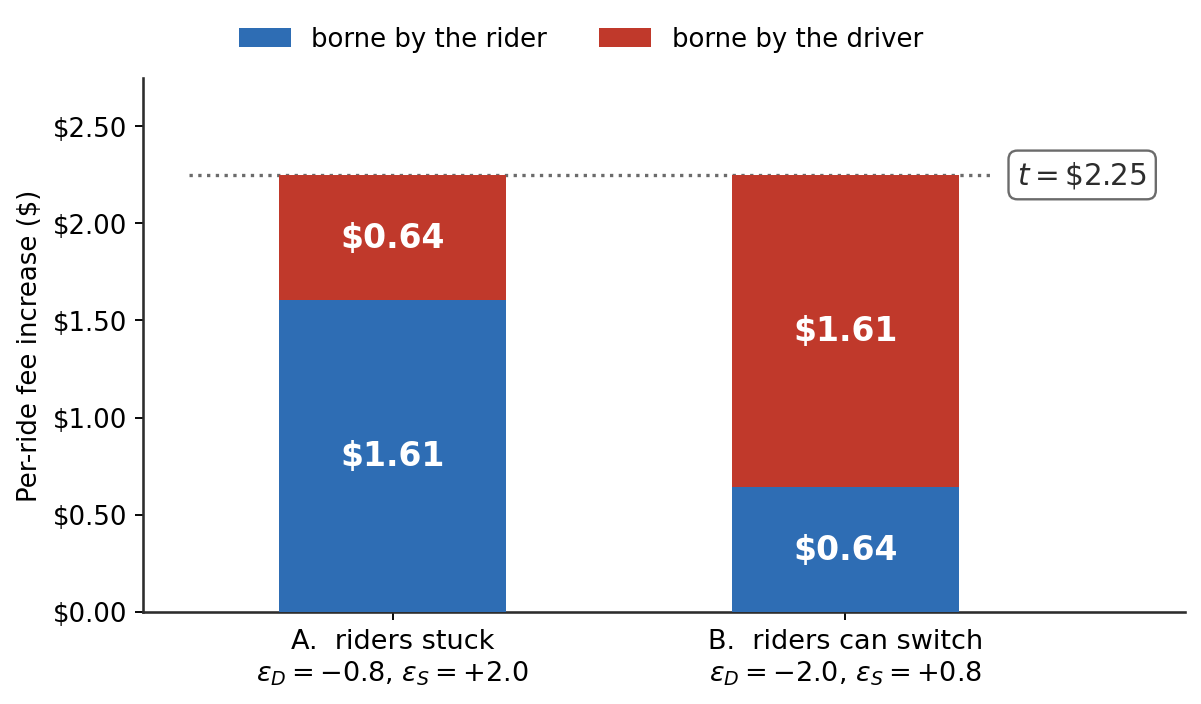
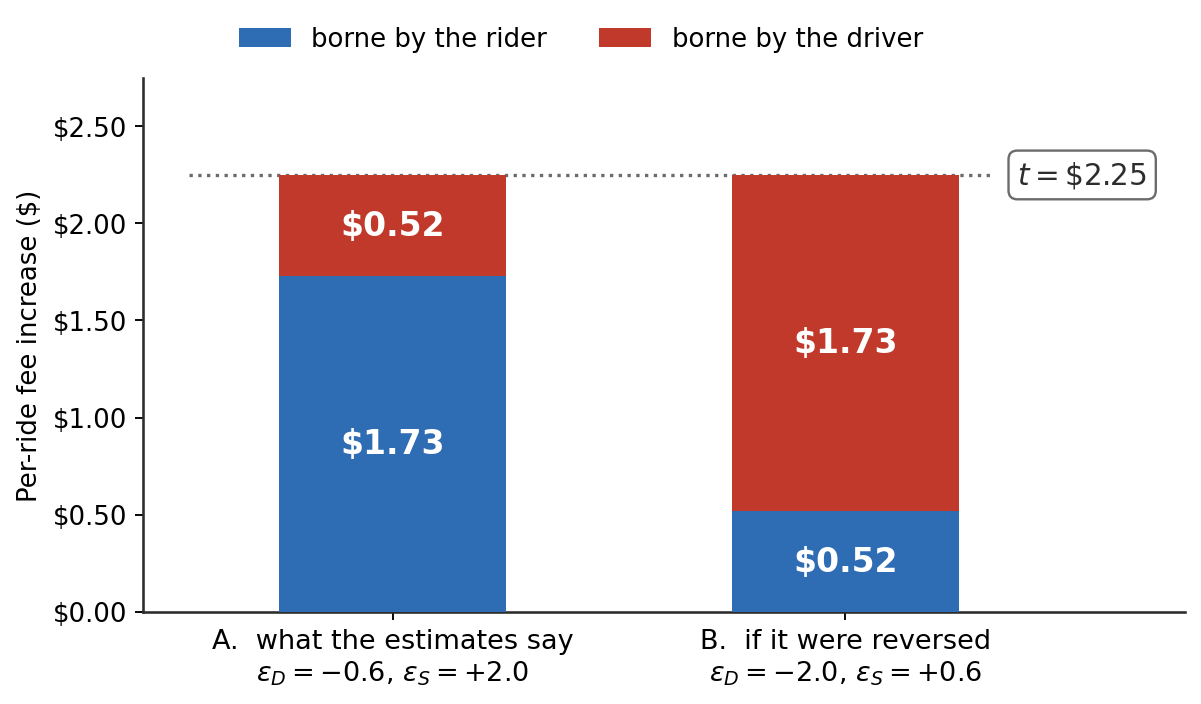
Ch 3 W3.4: anchor the elasticities to the literature -- and fix the conclusion
Answering "what were eD and eS": I had made them up. They were labelled as
teaching values, but I picked -0.8 and +2.0 to make the arithmetic flip
cleanly, and then wrote a closing line asserting the elastic case was "closer
to the truth than travellers expect." That assertion was wrong.

The estimates say the opposite:

  eD  Cohen, Hahn, Hall, Levitt & Metcalfe (2016, NBER w22627) estimate -0.57
      for UberX, using Uber's surge algorithm as a regression discontinuity
      across four US markets. Rideshare demand is INELASTIC.
  eS  Hall, Horton & Knoepfle find driver supply highly elastic -- no hours
      restriction, essentially free entry.

So riders are the inelastic side and drivers the elastic one, which makes case
(a) the real one, not (b): riders carry about $1.73 of the $2.25, drivers about
$0.52. Recalibrated to eD = -0.6, eS = +2.0, with the swapped case kept as an
explicit counterfactual ("if it were reversed") rather than a rival candidate.
Both citations now sit on the slide, not just in my head.

The airport-substitutes intuition -- parking, the Silver Line, a friend at the
curb -- is still worth raising in class, but as the thing the evidence
contradicts. That gap is now the teaching moment in the speaker notes.

Photos: added a real photograph rather than only generated figures. Boston
Logan aerial by David Wilson, CC BY 2.0 via Wikimedia Commons, credited on
both slides that use it -- as a banner on W3.4 and in the right column of the
[…]

diff --git a/econ2316/ch03-elasticity-policy/index.html b/econ2316/ch03-elasticity-policy/index.html
@@ -954,30 +954,31 @@
   <aside class="notes">First numerical workout of the incidence idea, and deliberately on a NON-tax shock - the HPAI cull from Chs 1 and 2 - so students see the formula is about elasticities, not about taxes. Say the lead-in rather than showing it. Part (c) is the payoff: Ch 2 solved this by re-solving the whole system and got dp = +2, dQ = -10; the elasticity route gets the same 2:1 split in one line. Same answer two ways - the §3.5 elasticity formula and Ch 2's total differentiation are the same mathematics wearing different clothes. Sanity check to voice: supply here is twice as elastic as demand, so demand should eat twice the burden, and it does.</aside>
 </section><section id="s5-w34">
   <h2><i class="fa-solid fa-flask" style="color: var(--accent-color);"></i> Walkthrough 3.4 &mdash; The Logan rideshare fee</h2>
-  <div style="background:#f0f5f8;padding:7px 15px;border-radius:8px;border-left:4px solid var(--secondary-color);margin-bottom:9px;">
+  <img alt="Aerial photograph of Boston Logan International Airport, terminals and runways ringed by the harbour." src="figures/logan-aerial.webp" style="width:100%;max-height:96px;object-fit:cover;object-position:center 42%;border-radius:8px;display:block;">
+  <div style="background:#f0f5f8;padding:7px 15px;border-radius:8px;border-left:4px solid var(--secondary-color);margin:9px 0;">
     <p style="font-size:12pt;line-height:1.45;margin:0;"><strong style="color:var(--secondary-color);">Problem.</strong> On 1 July 2025 Massport raised the per-trip rideshare fee at Logan from \(\$3.25\) to \(\$5.50\) &mdash; a <strong>unit tax</strong> of \(t=\$2.25\) a ride. Who actually pays it?</p>
   </div>
   <div style="display:grid;grid-template-columns:1.02fr 1fr;gap:18px;align-items:start;">
     <div>
-      <div class="fragment fade-in" data-fragment-index="1" style="background:#ecfdf5;padding:9px 14px;border-radius:8px;border-left:4px solid var(--success-color);">
-        <p style="font-size:10pt;color:var(--success-color);text-transform:uppercase;letter-spacing:1.1px;font-weight:700;margin:0 0 4px;">(a) Riders stuck &mdash; \(\varepsilon_D=-0.8\), \(\varepsilon_S=+2.0\)</p>
-        <p style="font-size:12.5pt;line-height:1.6;margin:0;">\(\dfrac{dp_c}{dt}=\dfrac{2.0}{2.0+0.8}=\mathbf{0.714}\)<br>Rider \(\mathbf{+\$1.61}\) &middot; driver \(\mathbf{-\$0.64}\)</p>
+      <div class="fragment fade-in" data-fragment-index="1" style="background:#ecfdf5;padding:8px 14px;border-radius:8px;border-left:4px solid var(--success-color);">
+        <p style="font-size:10pt;color:var(--success-color);text-transform:uppercase;letter-spacing:1.1px;font-weight:700;margin:0 0 3px;">(a) What the estimates say &mdash; \(\varepsilon_D=-0.6\), \(\varepsilon_S=+2.0\)</p>
+        <p style="font-size:12.5pt;line-height:1.55;margin:0;">\(\dfrac{dp_c}{dt}=\dfrac{2.0}{2.0+0.6}=\mathbf{0.769}\) &rarr; rider \(\mathbf{+\$1.73}\), driver \(\mathbf{-\$0.52}\)</p>
       </div>
-      <div class="fragment fade-in" data-fragment-index="2" style="background:#fef9f3;padding:9px 14px;border-radius:8px;border-left:4px solid var(--accent-color);margin-top:8px;">
-        <p style="font-size:10pt;color:var(--accent-color);text-transform:uppercase;letter-spacing:1.1px;font-weight:700;margin:0 0 4px;">(b) Now swap them &mdash; \(\varepsilon_D=-2.0\), \(\varepsilon_S=+0.8\)</p>
-        <p style="font-size:12.5pt;line-height:1.6;margin:0;">\(\dfrac{dp_c}{dt}=\dfrac{0.8}{2.8}=\mathbf{0.286}\)<br>Rider \(\mathbf{+\$0.64}\) &middot; driver \(\mathbf{-\$1.61}\). The shares <strong>flip</strong>.</p>
+      <div class="fragment fade-in" data-fragment-index="2" style="background:#fef9f3;padding:8px 14px;border-radius:8px;border-left:4px solid var(--accent-color);margin-top:7px;">
+        <p style="font-size:10pt;color:var(--accent-color);text-transform:uppercase;letter-spacing:1.1px;font-weight:700;margin:0 0 3px;">(b) If it were reversed &mdash; \(\varepsilon_D=-2.0\), \(\varepsilon_S=+0.6\)</p>
+        <p style="font-size:12.5pt;line-height:1.55;margin:0;">\(\dfrac{0.6}{2.6}=\mathbf{0.231}\) &rarr; rider \(\mathbf{+\$0.52}\), driver \(\mathbf{-\$1.73}\). The shares <strong>flip</strong>.</p>
       </div>
-      <div class="key-result fragment fade-in" data-fragment-index="3" style="margin-top:9px;">
-        <p style="font-size:12.5pt;margin:0 0 6px;"><strong>Whoever can walk away, walks away.</strong> Massport did not change who writes the cheque &mdash; only the two elasticities decide.</p>
-        <p style="font-size:11.5pt;margin:0;color:var(--muted-color);">At an airport the substitutes are real: park, take the Silver Line, or get dropped off. So (b) is closer to the truth than travellers expect.</p>
+      <div class="key-result fragment fade-in" data-fragment-index="3" style="margin-top:8px;">
+        <p style="font-size:12pt;margin:0 0 5px;"><strong>Whoever can walk away, walks away.</strong> Massport did not change who hands over the money &mdash; only the two elasticities decide.</p>
+        <p style="font-size:11.5pt;margin:0;color:var(--muted-color);">And here it is (a): riders are the <em>inelastic</em> side, drivers the elastic one. Travellers pay about \(\$1.73\) of every \(\$2.25\) &mdash; which is why a fee like this funds a \(\$1.5\)B capital programme.</p>
       </div>
     </div>
     <div>
-      <img alt="Two stacked bars splitting the two-dollar-twenty-five fee increase. When riders are the inelastic side they carry one dollar sixty-one and drivers sixty-four cents; when the elasticities are swapped the split reverses." src="figures/logan-incidence.png" style="width:100%;border-radius:8px;">
-      <p style="font-size:10.5pt;color:var(--muted-color);margin:8px 2px 0;line-height:1.4;">Fee change is real (Massport, 1 July 2025); the elasticities are teaching values, chosen to show the flip. Massport&rsquo;s original plan was \(\$7.50\) &mdash; frozen in the March 2025 deal, and the subject of &sect;3.6.</p>
+      <img alt="Two stacked bars splitting the two-dollar-twenty-five fee increase. Under the estimated elasticities riders carry one dollar seventy-three and drivers fifty-two cents; if the elasticities were reversed the split reverses too." src="figures/logan-incidence.png" style="width:100%;border-radius:8px;">
+      <p style="font-size:10pt;color:var(--muted-color);margin:6px 2px 0;line-height:1.4;">\(\varepsilon_D\): Cohen, Hahn, Hall, Levitt &amp; Metcalfe (2016, NBER w22627) estimate \(-0.57\) for UberX. \(\varepsilon_S\): Hall, Horton &amp; Knoepfle find driver supply highly elastic &mdash; free entry, no hours cap. Photo: David Wilson, CC BY 2.0.</p>
     </div>
   </div>
-  <aside class="notes">Local, current, and a clean unit tax - students have paid this one. The fee went from three twenty-five to five fifty on the first of July 2025, so t is two dollars twenty-five per ride, and the revenue funds about one and a half billion in Massport capital work. Part (b) is the whole walkthrough: run it again with the elasticities swapped and the burden reverses, with no change at all to who hands over the money. Anyone still thinking "the driver pays because the fee is charged to the trip" cannot hold that after seeing it flip. Be honest that the elasticities are teaching values, not estimates - the fee is the real part. The airport detail worth voicing is that rideshare demand there is more elastic than people assume, because parking, the Silver Line and a friend at the curb are all live substitutes, which pushes the real answer toward case (b). Hands to section 3.6, where Massport wanting seven fifty instead of five fifty is exactly the t-squared question.</aside>
+  <aside class="notes">Local, current, and a clean unit tax students have actually paid. The fee went three twenty-five to five fifty on 1 July 2025, so t is two twenty-five a ride, funding about one and a half billion in Massport capital work. Do NOT present the elasticities as invented - they are anchored. Cohen and co-authors used Uber surge pricing as a regression discontinuity across four US markets and got about minus zero point five seven for UberX, which surprises students who assume rideshare is a luxury they can drop. Hall, Horton and Knoepfle find driver supply is highly elastic because there is no hours restriction and essentially free entry. Put those together and case (a) is the real one: riders are the inelastic side and carry roughly one seventy-three of the two twenty-five. Case (b) exists to make the mechanism visible - swap the two numbers and the burden reverses with no change to who hands over the money. Anyone still thinking "the driver pays, it is charged to the trip" cannot hold that afterwards. The airport nuance worth voicing: parking, the Silver Line and a friend at the curb are real substitutes, so you might expect demand to be elastic here - the estimates say otherwise, and that gap between intuition and evidence is the useful moment. Hands to section 3.6, where Massport wanting seven fifty instead of five fifty is exactly the t-squared question.</aside>
 </section><section id="s5-headsup">
   <h2><i class="fa-solid fa-triangle-exclamation" style="color: var(--danger-color);"></i> Heads Up 3.3 &mdash; Statutory incidence is irrelevant</h2>
   <div class="misconception" style="margin-top: 14px;">
@@ -1128,8 +1129,12 @@
       <div style="background:#f8f6f3;border-left:4px solid var(--muted-color);border-radius:8px;padding:12px 16px;">
         <p style="font-size:12.5pt;line-height:1.5;margin:0;"><strong>Revenue is ambiguous.</strong> More per ride, but fewer rides. Which wins depends on elasticity.</p></div>
     </div>
-    <div class="key-result" style="margin:0;">
-      <p style="font-size:12.5pt;margin:0;">Every tax rise buys revenue at a <strong>worsening exchange rate</strong>. That is the \(t^{2}\) result, seen on a real fee.</p>
+    <div>
+      <img alt="Aerial photograph of Boston Logan International Airport." src="figures/logan-aerial.webp" style="width:100%;max-height:150px;object-fit:cover;object-position:center 42%;border-radius:8px;display:block;">
+      <div class="key-result" style="margin:10px 0 0;">
+        <p style="font-size:12.5pt;margin:0;">Every tax rise buys revenue at a <strong>worsening exchange rate</strong>. That is the \(t^{2}\) result, seen on a real fee.</p>
+      </div>
+      <p style="font-size:10pt;color:var(--muted-color);margin:6px 2px 0;">Photo: David Wilson / Wikimedia Commons, CC BY 2.0.</p>
     </div>
   </div>
   <aside class="notes">Geometry to narrate off the diagram rather than label on it: when t doubles, the old DWL triangle is not simply scaled - the new region covers the old one plus the strips either side, which is where "more than doubles" comes from. Revenue splits into two opposing pieces: the state gains the extra fee on rides that still happen, and loses the fee entirely on rides that stop. Net direction depends on how elastic airport rideshare demand is - and at an airport, with parking and transit as substitutes, it is more elastic than people expect. Heads Up 3.4 next states the t-squared result formally.</aside>

diff --git a/econ2316/ch03-elasticity-policy/presentation.html b/econ2316/ch03-elasticity-policy/presentation.html
@@ -954,30 +954,31 @@
   <aside class="notes">First numerical workout of the incidence idea, and deliberately on a NON-tax shock - the HPAI cull from Chs 1 and 2 - so students see the formula is about elasticities, not about taxes. Say the lead-in rather than showing it. Part (c) is the payoff: Ch 2 solved this by re-solving the whole system and got dp = +2, dQ = -10; the elasticity route gets the same 2:1 split in one line. Same answer two ways - the §3.5 elasticity formula and Ch 2's total differentiation are the same mathematics wearing different clothes. Sanity check to voice: supply here is twice as elastic as demand, so demand should eat twice the burden, and it does.</aside>
 </section><section id="s5-w34">
   <h2><i class="fa-solid fa-flask" style="color: var(--accent-color);"></i> Walkthrough 3.4 &mdash; The Logan rideshare fee</h2>
-  <div style="background:#f0f5f8;padding:7px 15px;border-radius:8px;border-left:4px solid var(--secondary-color);margin-bottom:9px;">
+  <img alt="Aerial photograph of Boston Logan International Airport, terminals and runways ringed by the harbour." src="figures/logan-aerial.webp" style="width:100%;max-height:96px;object-fit:cover;object-position:center 42%;border-radius:8px;display:block;">
+  <div style="background:#f0f5f8;padding:7px 15px;border-radius:8px;border-left:4px solid var(--secondary-color);margin:9px 0;">
     <p style="font-size:12pt;line-height:1.45;margin:0;"><strong style="color:var(--secondary-color);">Problem.</strong> On 1 July 2025 Massport raised the per-trip rideshare fee at Logan from \(\$3.25\) to \(\$5.50\) &mdash; a <strong>unit tax</strong> of \(t=\$2.25\) a ride. Who actually pays it?</p>
   </div>
   <div style="display:grid;grid-template-columns:1.02fr 1fr;gap:18px;align-items:start;">
     <div>
-      <div class="fragment fade-in" data-fragment-index="1" style="background:#ecfdf5;padding:9px 14px;border-radius:8px;border-left:4px solid var(--success-color);">
-        <p style="font-size:10pt;color:var(--success-color);text-transform:uppercase;letter-spacing:1.1px;font-weight:700;margin:0 0 4px;">(a) Riders stuck &mdash; \(\varepsilon_D=-0.8\), \(\varepsilon_S=+2.0\)</p>
-        <p style="font-size:12.5pt;line-height:1.6;margin:0;">\(\dfrac{dp_c}{dt}=\dfrac{2.0}{2.0+0.8}=\mathbf{0.714}\)<br>Rider \(\mathbf{+\$1.61}\) &middot; driver \(\mathbf{-\$0.64}\)</p>
+      <div class="fragment fade-in" data-fragment-index="1" style="background:#ecfdf5;padding:8px 14px;border-radius:8px;border-left:4px solid var(--success-color);">
+        <p style="font-size:10pt;color:var(--success-color);text-transform:uppercase;letter-spacing:1.1px;font-weight:700;margin:0 0 3px;">(a) What the estimates say &mdash; \(\varepsilon_D=-0.6\), \(\varepsilon_S=+2.0\)</p>
+        <p style="font-size:12.5pt;line-height:1.55;margin:0;">\(\dfrac{dp_c}{dt}=\dfrac{2.0}{2.0+0.6}=\mathbf{0.769}\) &rarr; rider \(\mathbf{+\$1.73}\), driver \(\mathbf{-\$0.52}\)</p>
       </div>
-      <div class="fragment fade-in" data-fragment-index="2" style="background:#fef9f3;padding:9px 14px;border-radius:8px;border-left:4px solid var(--accent-color);margin-top:8px;">
-        <p style="font-size:10pt;color:var(--accent-color);text-transform:uppercase;letter-spacing:1.1px;font-weight:700;margin:0 0 4px;">(b) Now swap them &mdash; \(\varepsilon_D=-2.0\), \(\varepsilon_S=+0.8\)</p>
-        <p style="font-size:12.5pt;line-height:1.6;margin:0;">\(\dfrac{dp_c}{dt}=\dfrac{0.8}{2.8}=\mathbf{0.286}\)<br>Rider \(\mathbf{+\$0.64}\) &middot; driver \(\mathbf{-\$1.61}\). The shares <strong>flip</strong>.</p>
+      <div class="fragment fade-in" data-fragment-index="2" style="background:#fef9f3;padding:8px 14px;border-radius:8px;border-left:4px solid var(--accent-color);margin-top:7px;">
+        <p style="font-size:10pt;color:var(--accent-color);text-transform:uppercase;letter-spacing:1.1px;font-weight:700;margin:0 0 3px;">(b) If it were reversed &mdash; \(\varepsilon_D=-2.0\), \(\varepsilon_S=+0.6\)</p>
+        <p style="font-size:12.5pt;line-height:1.55;margin:0;">\(\dfrac{0.6}{2.6}=\mathbf{0.231}\) &rarr; rider \(\mathbf{+\$0.52}\), driver \(\mathbf{-\$1.73}\). The shares <strong>flip</strong>.</p>
       </div>
-      <div class="key-result fragment fade-in" data-fragment-index="3" style="margin-top:9px;">
-        <p style="font-size:12.5pt;margin:0 0 6px;"><strong>Whoever can walk away, walks away.</strong> Massport did not change who writes the cheque &mdash; only the two elasticities decide.</p>
-        <p style="font-size:11.5pt;margin:0;color:var(--muted-color);">At an airport the substitutes are real: park, take the Silver Line, or get dropped off. So (b) is closer to the truth than travellers expect.</p>
+      <div class="key-result fragment fade-in" data-fragment-index="3" style="margin-top:8px;">
+        <p style="font-size:12pt;margin:0 0 5px;"><strong>Whoever can walk away, walks away.</strong> Massport did not change who hands over the money &mdash; only the two elasticities decide.</p>
+        <p style="font-size:11.5pt;margin:0;color:var(--muted-color);">And here it is (a): riders are the <em>inelastic</em> side, drivers the elastic one. Travellers pay about \(\$1.73\) of every \(\$2.25\) &mdash; which is why a fee like this funds a \(\$1.5\)B capital programme.</p>
       </div>
     </div>
     <div>
-      <img alt="Two stacked bars splitting the two-dollar-twenty-five fee increase. When riders are the inelastic side they carry one dollar sixty-one and drivers sixty-four cents; when the elasticities are swapped the split reverses." src="figures/logan-incidence.png" style="width:100%;border-radius:8px;">
-      <p style="font-size:10.5pt;color:var(--muted-color);margin:8px 2px 0;line-height:1.4;">Fee change is real (Massport, 1 July 2025); the elasticities are teaching values, chosen to show the flip. Massport&rsquo;s original plan was \(\$7.50\) &mdash; frozen in the March 2025 deal, and the subject of &sect;3.6.</p>
+      <img alt="Two stacked bars splitting the two-dollar-twenty-five fee increase. Under the estimated elasticities riders carry one dollar seventy-three and drivers fifty-two cents; if the elasticities were reversed the split reverses too." src="figures/logan-incidence.png" style="width:100%;border-radius:8px;">
+      <p style="font-size:10pt;color:var(--muted-color);margin:6px 2px 0;line-height:1.4;">\(\varepsilon_D\): Cohen, Hahn, Hall, Levitt &amp; Metcalfe (2016, NBER w22627) estimate \(-0.57\) for UberX. \(\varepsilon_S\): Hall, Horton &amp; Knoepfle find driver supply highly elastic &mdash; free entry, no hours cap. Photo: David Wilson, CC BY 2.0.</p>
     </div>
   </div>
-  <aside class="notes">Local, current, and a clean unit tax - students have paid this one. The fee went from three twenty-five to five fifty on the first of July 2025, so t is two dollars twenty-five per ride, and the revenue funds about one and a half billion in Massport capital work. Part (b) is the whole walkthrough: run it again with the elasticities swapped and the burden reverses, with no change at all to who hands over the money. Anyone still thinking "the driver pays because the fee is charged to the trip" cannot hold that after seeing it flip. Be honest that the elasticities are teaching values, not estimates - the fee is the real part. The airport detail worth voicing is that rideshare demand there is more elastic than people assume, because parking, the Silver Line and a friend at the curb are all live substitutes, which pushes the real answer toward case (b). Hands to section 3.6, where Massport wanting seven fifty instead of five fifty is exactly the t-squared question.</aside>
+  <aside class="notes">Local, current, and a clean unit tax students have actually paid. The fee went three twenty-five to five fifty on 1 July 2025, so t is two twenty-five a ride, funding about one and a half billion in Massport capital work. Do NOT present the elasticities as invented - they are anchored. Cohen and co-authors used Uber surge pricing as a regression discontinuity across four US markets and got about minus zero point five seven for UberX, which surprises students who assume rideshare is a luxury they can drop. Hall, Horton and Knoepfle find driver supply is highly elastic because there is no hours restriction and essentially free entry. Put those together and case (a) is the real one: riders are the inelastic side and carry roughly one seventy-three of the two twenty-five. Case (b) exists to make the mechanism visible - swap the two numbers and the burden reverses with no change to who hands over the money. Anyone still thinking "the driver pays, it is charged to the trip" cannot hold that afterwards. The airport nuance worth voicing: parking, the Silver Line and a friend at the curb are real substitutes, so you might expect demand to be elastic here - the estimates say otherwise, and that gap between intuition and evidence is the useful moment. Hands to section 3.6, where Massport wanting seven fifty instead of five fifty is exactly the t-squared question.</aside>
 </section><section id="s5-headsup">
   <h2><i class="fa-solid fa-triangle-exclamation" style="color: var(--danger-color);"></i> Heads Up 3.3 &mdash; Statutory incidence is irrelevant</h2>
   <div class="misconception" style="margin-top: 14px;">
@@ -1128,8 +1129,12 @@
       <div style="background:#f8f6f3;border-left:4px solid var(--muted-color);border-radius:8px;padding:12px 16px;">
         <p style="font-size:12.5pt;line-height:1.5;margin:0;"><strong>Revenue is ambiguous.</strong> More per ride, but fewer rides. Which wins depends on elasticity.</p></div>
     </div>
-    <div class="key-result" style="margin:0;">
-      <p style="font-size:12.5pt;margin:0;">Every tax rise buys revenue at a <strong>worsening exchange rate</strong>. That is the \(t^{2}\) result, seen on a real fee.</p>
+    <div>
+      <img alt="Aerial photograph of Boston Logan International Airport." src="figures/logan-aerial.webp" style="width:100%;max-height:150px;object-fit:cover;object-position:center 42%;border-radius:8px;display:block;">
+      <div class="key-result" style="margin:10px 0 0;">
+        <p style="font-size:12.5pt;margin:0;">Every tax rise buys revenue at a <strong>worsening exchange rate</strong>. That is the \(t^{2}\) result, seen on a real fee.</p>
+      </div>
+      <p style="font-size:10pt;color:var(--muted-color);margin:6px 2px 0;">Photo: David Wilson / Wikimedia Commons, CC BY 2.0.</p>
     </div>
   </div>
   <aside class="notes">Geometry to narrate off the diagram rather than label on it: when t doubles, the old DWL triangle is not simply scaled - the new region covers the old one plus the strips either side, which is where "more than doubles" comes from. Revenue splits into two opposing pieces: the state gains the extra fee on rides that still happen, and loses the fee entirely on rides that stop. Net direction depends on how elastic airport rideshare demand is - and at an airport, with parking and transit as substitutes, it is more elastic than people expect. Heads Up 3.4 next states the t-squared result formally.</aside>

diff --git a/econ2316/ch03-elasticity-policy/figures/_gen_logan_incidence.py b/econ2316/ch03-elasticity-policy/figures/_gen_logan_incidence.py
@@ -1,9 +1,13 @@
 """Walkthrough 3.4 -- Logan rideshare per-ride fee, a unit tax.
 Massport raised the per-trip rideshare fee $3.25 -> $5.50 on 1 July 2025, so t = $2.25.
 (The original proposal was $7.50; that second step was frozen.)
-Teaching elasticities are ASSUMED, chosen to be plausible and to flip cleanly:
-  A: eD = -0.8, eS = +2.0  -> dpc/dt = 2.0/2.8 = 0.714  -> rider $1.61 / driver $0.64
-  B: swapped               -> dpc/dt = 0.8/2.8 = 0.286  -> rider $0.64 / driver $1.61
+Elasticities anchored to the literature, NOT invented:
+  eD = -0.57 for UberX (Cohen, Hahn, Hall, Levitt & Metcalfe 2016, NBER w22627 --
+       RD design on surge pricing, four US markets). Rounded to -0.6 here.
+  eS large: Hall, Horton & Knoepfle find driver supply highly elastic -- no hours
+       restriction and minimal entry barriers. Using +2.0.
+  A (the estimated case): dpc/dt = 2.0/2.6 = 0.769 -> rider $1.73 / driver $0.52
+  B (counterfactual, swapped):     = 0.6/2.6 = 0.231 -> rider $0.52 / driver $1.73
 """
 import matplotlib; matplotlib.use("Agg")
 import matplotlib.pyplot as plt
@@ -17,12 +21,12 @@ def split(eD, eS):
     share_c = eS / (eS - eD)
     return share_c * T, (1 - share_c) * T
 
-A = split(-0.8, 2.0)
-B = split(-2.0, 0.8)
+A = split(-0.6, 2.0)
+B = split(-2.0, 0.6)
 
 fig, ax = plt.subplots(figsize=(7.2, 4.3))
-labels = ["A.  riders stuck\n$\\varepsilon_D=-0.8$, $\\varepsilon_S=+2.0$",
-          "B.  riders can switch\n$\\varepsilon_D=-2.0$, $\\varepsilon_S=+0.8$"]
+labels = ["A.  what the estimates say\n$\\varepsilon_D=-0.6$, $\\varepsilon_S=+2.0$",
+          "B.  if it were reversed\n$\\varepsilon_D=-2.0$, $\\varepsilon_S=+0.6$"]
 x = [0, 1]
 rider = [A[0], B[0]]
 driver = [A[1], B[1]]
@@ -48,5 +52,5 @@ ax.legend(loc="upper center", bbox_to_anchor=(0.42, 1.14), ncol=2, frameon=False
 fig.tight_layout()
 fig.savefig("logan-incidence.png", bbox_inches="tight")
 print(f"t = ${T}")
-for n, (rc, dv), (eD, eS) in [("A", A, (-0.8, 2.0)), ("B", B, (-2.0, 0.8))]:
+for n, (rc, dv), (eD, eS) in [("A", A, (-0.6, 2.0)), ("B", B, (-2.0, 0.6))]:
     print(f"  {n}: eD={eD} eS={eS}  dpc/dt={eS/(eS-eD):.4f}  rider=${rc:.4f} driver=${dv:.4f}  sum=${rc+dv:.4f}")
